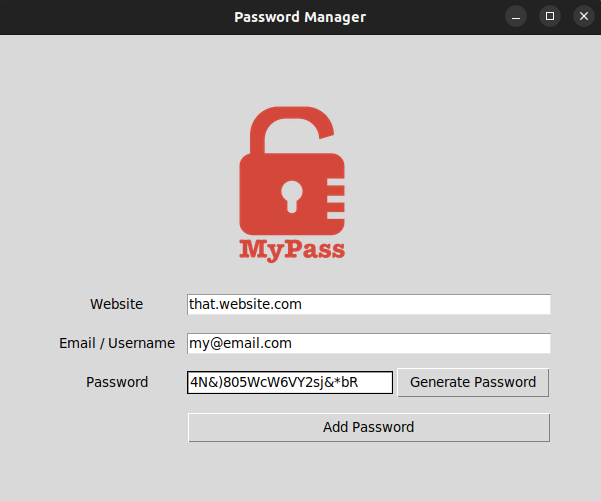
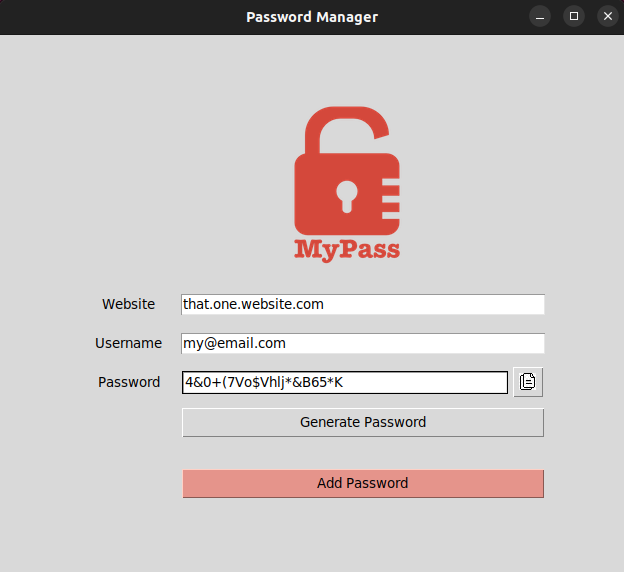
Updated UI

Changed region(s): [[0.0899, 0.1796, 0.9285, 0.8982], [0.0, 0.0, 1.0, 0.0898], [0.1498, 0.7485, 0.2696, 0.7784]]

diff --git a/main.py b/main.py
@@ -80,7 +80,7 @@ WINDOW_HEIGHT = 500
 # WINDOW
 window = Tk()
 window.title("Password Manager")
-window.config(padx=75, pady=75)
+window.config(padx=80, pady=50)
 # Get screen width and height
 screen_width = window.winfo_screenwidth()
 screen_height = window.winfo_screenheight()
@@ -127,11 +127,12 @@ passwd_entry.grid(column=1, row=3)
 
 # BUTTONS
 # Add password
-passwd_add_btn = Button(width=43, text="Add Password", command=add_password)
-passwd_add_btn.grid(column=1, row=4, columnspan=2, pady=10)
+passwd_add_btn = Button(width=42, text="Add Password", command=add_password)
+passwd_add_btn.config(bg="#e5948b")
+passwd_add_btn.grid(column=1, row=5, columnspan=2, pady=25)
 # Generate password
-passwd_gen_btn = Button(text="Generate Password", command=generate_password)
-passwd_gen_btn.grid(column=3, row=3, padx=15)
+passwd_gen_btn = Button(width=42, text="Generate Password", command=generate_password)
+passwd_gen_btn.grid(column=1, row=4, columnspan=2, pady=5)
 # Copy password
 img = Image.open("img/copy.png")
 resized_img = img.resize((17, 17))
